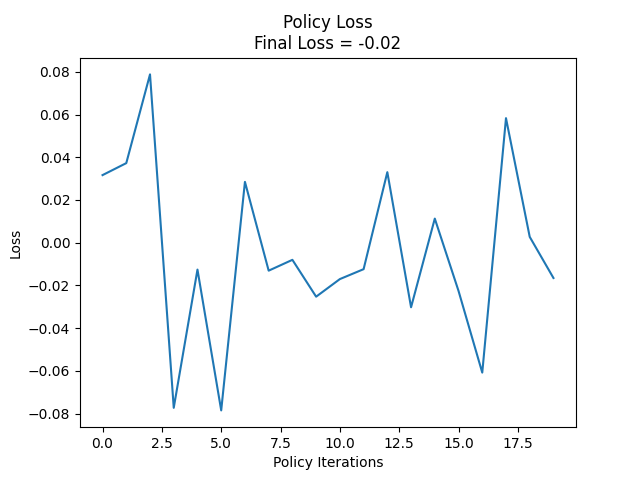
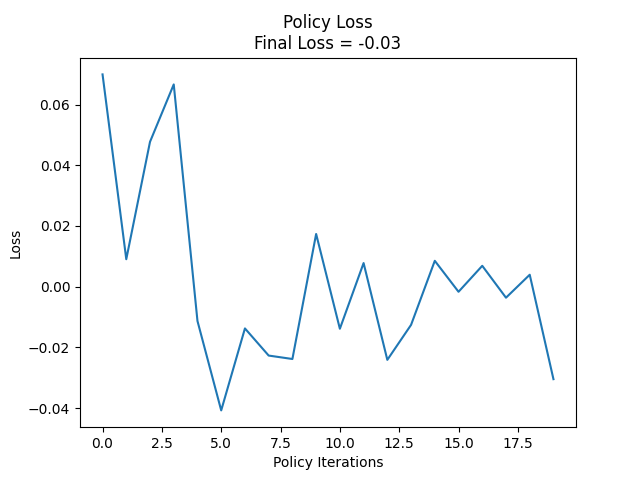
revert the local state features

diff --git a/Utils/mdp.py b/Utils/mdp.py
@@ -359,7 +359,7 @@ class MarkovDecisionProcess:
         self.num_car_reduced_states = len(self.regions) * (self.max_tracked_eta + 1 + self.max_tracked_eta + 1) * self.num_binned_battery + len(self.regions) * self.num_binned_battery * self.num_charging_rates
         self.num_total_reduced_states = self.num_car_reduced_states + self.num_trip_reduced_states + self.num_plug_states
         ## TODO: Fix it!
-        self.num_total_local_states = len(self.regions) * (self.connection_patience + 1) + len(self.regions) + self.num_binned_battery + 1 + len(self.regions) #+ 1 #len(self.regions) * (self.connection_patience + 1) + 3
+        self.num_total_local_states = len(self.regions) * (self.connection_patience + 1) + len(self.regions) + self.num_binned_battery + 1 + 1 #len(self.regions) #len(self.regions) * (self.connection_patience + 1) + 3
         ## Variables keeping track of states
         self.state_dict = {}
         self.state_to_id = {}
@@ -1346,9 +1346,9 @@ class MarkovDecisionProcess:
         start = 1 + len(self.regions) + self.num_binned_battery
         term = start + (end - begin)
         local_state_counts[start:term] = self.state_counts[begin:end]
-        local_state_counts[term:] = torch.from_numpy((np.add.reduceat(self.state_counts[begin:end].numpy(), np.arange(0, len(self.regions) * (self.connection_patience + 1), self.connection_patience + 1)) > 0) + 0.0)
-#        if torch.sum(self.state_counts[begin:end]) > 0:
-#            local_state_counts[term] = 1
+#        local_state_counts[term:] = torch.from_numpy((np.add.reduceat(self.state_counts[begin:end].numpy(), np.arange(0, len(self.regions) * (self.connection_patience + 1), self.connection_patience + 1)) > 0) + 0.0)
+        if torch.sum(self.state_counts[begin:end]) > 0:
+            local_state_counts[term] = 1
         return local_state_counts
     
     ## Check if the action has the potential to be feasible

diff --git a/pipeline.py b/pipeline.py
@@ -127,7 +127,7 @@ def main(args, json_name = ""):
     ## Evaluation
     ## TODO: Implement it!!!
     
-JSON_NAME = "100car_4region_400charger_15min_fullycharged_nyc_ppo" #"12car_4region_48charger_15min_fullycharged_nyc_ppo" #"1car_2region_ppo" #"10car_5region_d-closest" #"12car_4region_48charger_15min_demandScale2_fullycharged_nyc_d-closest" #"12car_4region_2charger_15min_fullycharged_workair_nyc_ppo" #"200car_4region_nyc_ppo" #"100car_3region_ppo" # "1car_3region_patience_ppo" #"1car_3region_dp" #
+JSON_NAME = "12car_4region_48charger_15min_fullycharged_nyc_ppo" #"1car_2region_ppo" #"100car_4region_400charger_15min_fullycharged_nyc_ppo" #"10car_5region_d-closest" #"12car_4region_48charger_15min_demandScale2_fullycharged_nyc_d-closest" #"12car_4region_2charger_15min_fullycharged_workair_nyc_ppo" #"200car_4region_nyc_ppo" #"100car_3region_ppo" # "1car_3region_patience_ppo" #"1car_3region_dp" #
 
 with open(f"Args/{JSON_NAME}.json", "r") as f:
     args = json.load(f)
